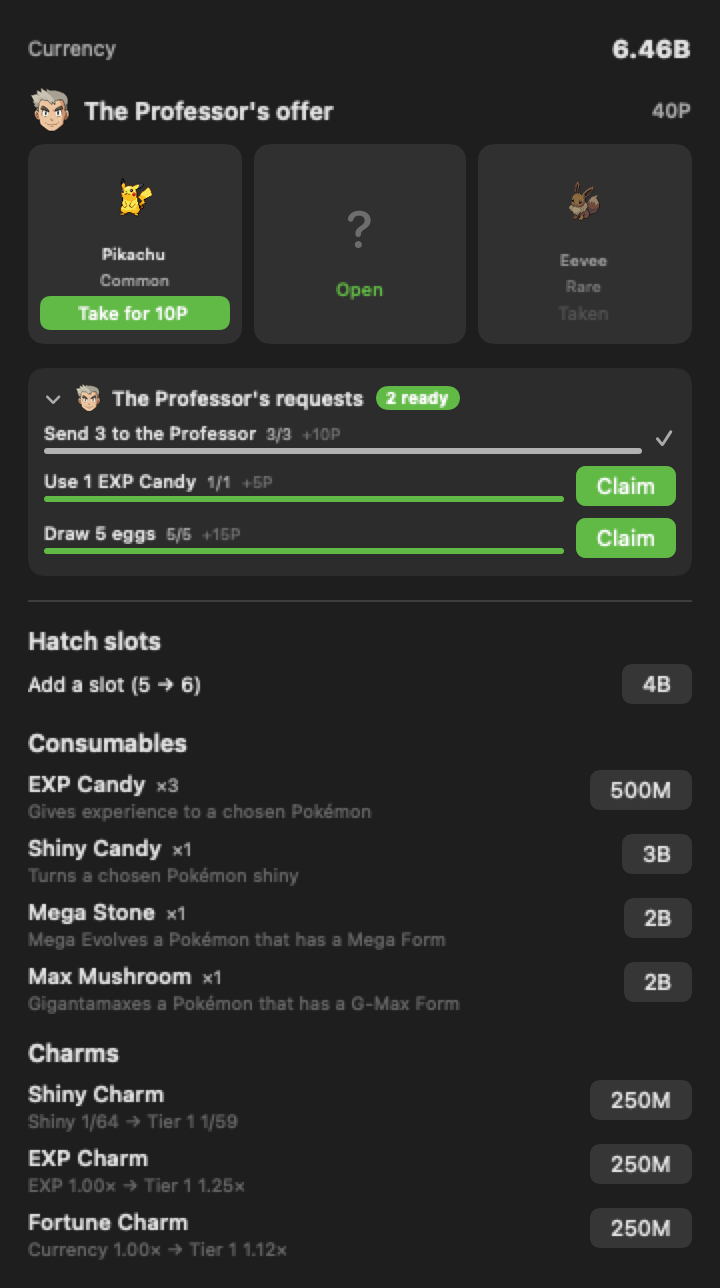
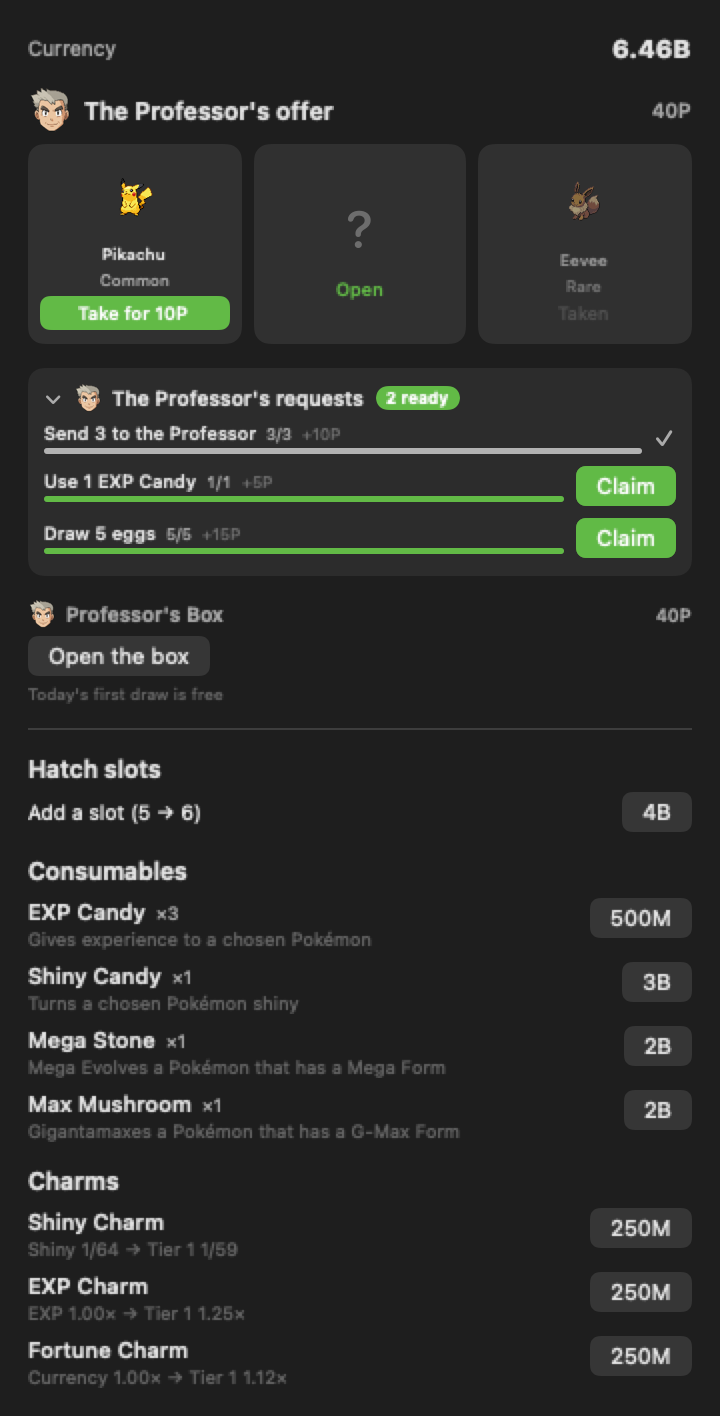
docs: document the Professor's Box

diff --git a/Tests/PokeDexBarTests/ScreenshotGenerator.swift b/Tests/PokeDexBarTests/ScreenshotGenerator.swift
@@ -1025,6 +1025,10 @@ final class ScreenshotGeneratorTests: XCTestCase {
         // §릴리스 1 하드 게이트가 요구하는 신규 에셋이 이것이다.
         try write(png(drawSlotBanner()), "draw-slot.png")
 
+        // 박사의 상자 — 연구 포인트로 도는 아이템 뽑기. 오늘 무료·다음 판 20포인트·포인트 부족
+        // 세 상태가 한 화면에 세로로. §릴리스 1 하드 게이트가 요구하는 신규 에셋이 이것이다.
+        try write(png(professorBoxBanner()), "professor-box.png")
+
         // 문제 제보 — 크래시 배너(홈)와 설정의 제보 줄을 위아래로. **픽스처에 크래시 기록을
         // 심어야 배너가 찍힌다** — 안 심으면 아무리 다시 생성해도 빈 자리만 나온다(설정
         // 스크린샷에 플로팅 펫이 꺼져 있어 새 토글이 영영 안 찍히던 함정과 같은 부류).
@@ -1631,6 +1635,30 @@ final class ScreenshotGeneratorTests: XCTestCase {
             row(wallet: EggBalance.drawPrice * 40, eggs: 1)     // 뽑을 수 있다
             row(wallet: EggBalance.drawPrice / 2, eggs: 1)      // 지갑이 모자라다
             row(wallet: EggBalance.drawPrice * 40, eggs: 3)     // 자리가 찼다
+        }
+        .frame(width: PopoverMetrics.contentWidth)
+        .padding(16)
+        .background(Color(nsColor: .windowBackgroundColor))
+    }
+
+    /// 박사의 상자 세 상태를 세로로 — 무료, 유료(값 표시), 포인트 부족.
+    private func professorBoxBanner() -> some View {
+        let now = ScreenshotFixture.now
+        func row(points: Int, spent: Bool) -> ProfessorBoxSection {
+            let store = PlayerStore(fileURL: FileManager.default.temporaryDirectory
+                                        .appendingPathComponent("box-\(UUID().uuidString).json"),
+                                    rng: SeededRNG(seed: 9), now: { now },
+                                    defaults: UserDefaults(suiteName: "ptb-box-\(UUID().uuidString)")!)
+            store.setLanguage(.en)
+            store.seedForTesting(wallet: 0, slots: 3, eggs: 0, at: now)
+            store.grantPointsForTesting(points)
+            if spent { store.mutate { $0.freeItemDrawUsed = true } }
+            return ProfessorBoxSection(store: store)
+        }
+        return VStack(alignment: .leading, spacing: 14) {
+            row(points: 120, spent: false)   // 오늘 무료
+            row(points: 120, spent: true)    // 다음 판 20포인트
+            row(points: 5, spent: true)      // 포인트 부족
         }
         .frame(width: PopoverMetrics.contentWidth)
         .padding(16)

diff --git a/README.ko.md b/README.ko.md
@@ -246,6 +246,13 @@ PokeDexBar는 당신이 이미 태우고 있는 AI 코딩 토큰(Claude Code · 
 </td>
 </tr>
 <tr>
+<td width="45%" align="center"><img src="assets/professor-box.png" width="300" alt="박사의 상자 세 상태 — 오늘의 무료 한 판, 20포인트가 붙은 다음 판, 포인트가 모자라 흐려진 같은 줄"></td>
+<td width="55%" valign="middle">
+<h3>🎁 박사의 상자</h3>
+연구 포인트는 쓸 데가 하나뿐이었어요 — 박사가 내민 포켓몬을 데려오는 것. 이제 하루 한 번은 공짜로 상자를 열고, 그날 안에 더 열고 싶으면 값이 두 배씩 붙어요(20 → 40 → 80). 안에는 경험치 사탕, 한 마리의 친밀도를 하루치 올려 주는 <b>마사지 쿠폰</b>, 등급별 알 확정권, 그리고 적힌 세대에서만 부화하는 <b>세대 확정권</b>이 들어 있습니다. 값이 두 배씩 오르는 건 균형 때문이에요 — 포인트는 포켓몬을 보내서 버니까, 값이 고정이면 알을 사탕으로 바꾸는 순환이 하루 종일 돌아요.
+</td>
+</tr>
+<tr>
 <td width="55%" valign="middle">
 <h3>🥚 시계가 익히면, 깨우는 건 나예요</h3>
 최대 3개(슬롯을 사면 6개)를 동시에 뽑을 수 있고, 등급마다 껍질 색과 무늬 수가 달라 한눈에 뭐가 자라는 중인지 알 수 있어요. 각자 실제 시계로 부화 타이머가 흐릅니다 — 커먼은 30분, 레전더리는 24시간까지 — 자리를 비워도 홈에서 실시간으로 카운트다운되고, 준비되면 알림 하나로 알려줍니다. 그 뒤엔 슬롯에 금이 간 채로 기다리다가, 확인을 누르면 알이 흔들리다 터지고 그 자리에서 포켓몬이 나와요.

diff --git a/README.md b/README.md
@@ -246,6 +246,13 @@ A labelled Draw tile stands at the head of the hatching row, so the thing you sp
 </td>
 </tr>
 <tr>
+<td width="45%" align="center"><img src="assets/professor-box.png" width="300" alt="The Professor's Box in three states: today's free draw, the next draw priced at 20 points, and the same row dimmed when you are short"></td>
+<td width="55%" valign="middle">
+<h3>🎁 The Professor's Box</h3>
+Research points had one use — taking a Pokémon he offers you. Now they also open a box once a day for free, and again within the day at a price that doubles each time: 20, then 40, then 80. Inside are EXP Candy, <b>Massage Coupons</b> that add a day of friendship to one Pokémon, egg tickets by grade, and <b>generation tickets</b> that hatch only from the generation named on them. The doubling is what keeps it honest: points come from releasing Pokémon, so a flat price would turn eggs into candy on a loop.
+</td>
+</tr>
+<tr>
 <td width="55%" valign="middle">
 <h3>🥚 Ready on the clock, opened by you</h3>
 Draw up to 3 eggs at once (6 with a slot upgrade) — each grade gets its own shell colour and speckle count, so you can tell what's incubating at a glance. Every egg counts down on its own wall-clock timer — 30 minutes for a Common up to 24 hours for a Legendary — live on Home even while you're away, and a notification tells you once it's ready. It then waits there, cracked, until you tap Open — the cracked egg rocks, bursts, and the Pokémon springs out of it.
